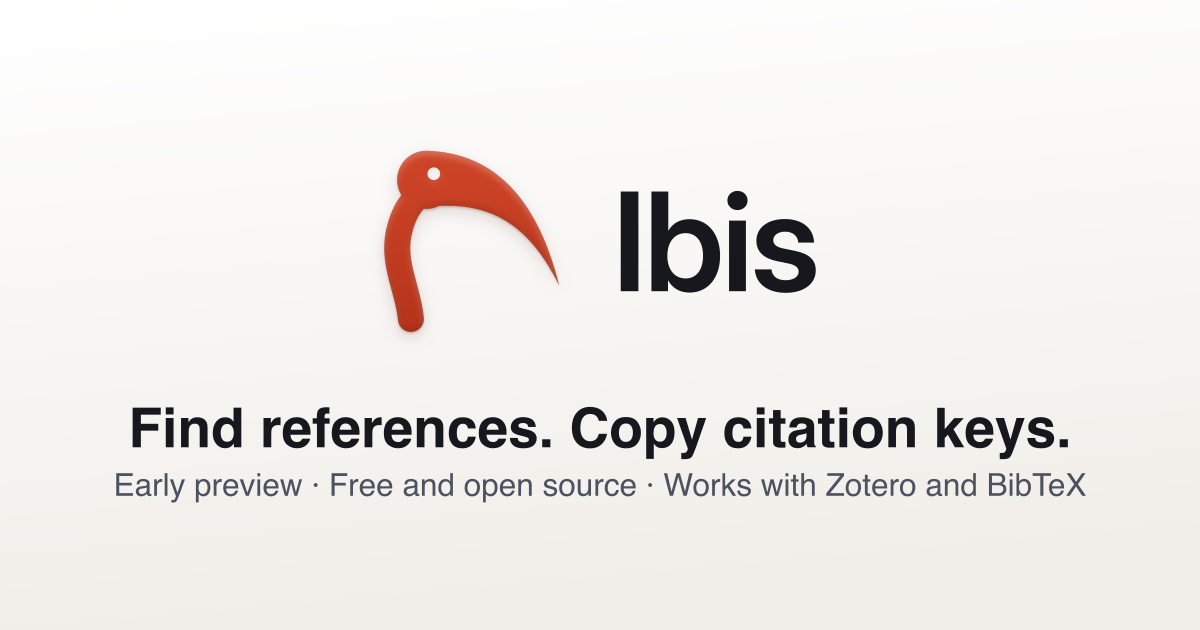
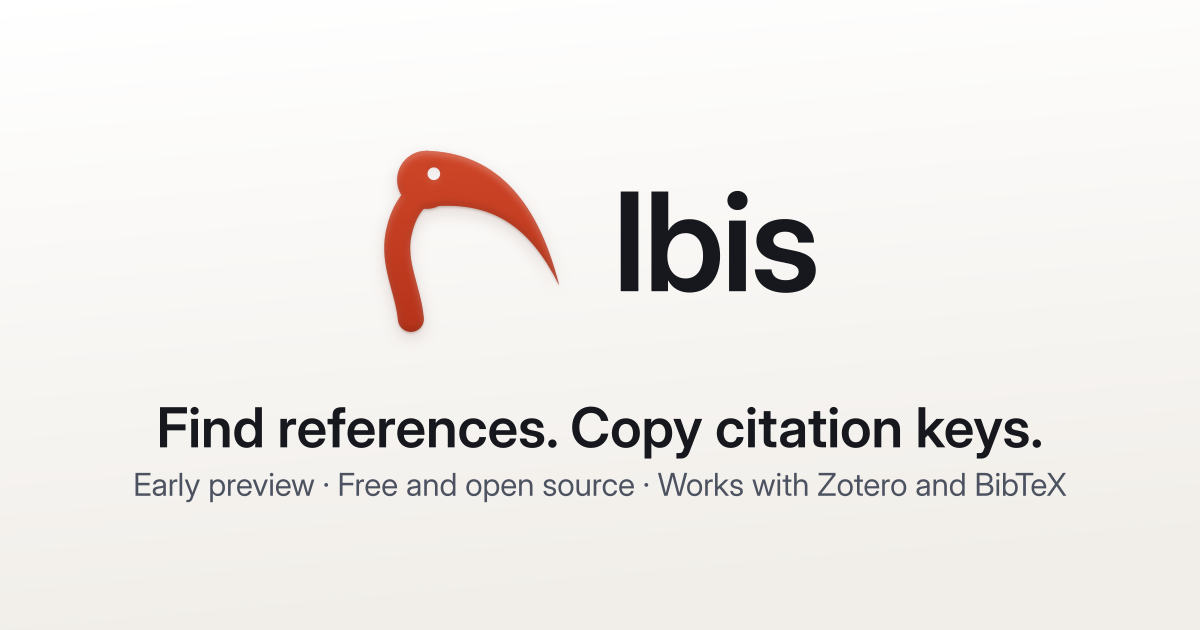
fix: render brand text with the same font backend
Assisted-by: Codex GPT-6

Changed region(s): [[0.0925, 0.6333, 0.925, 0.8143], [0.0925, 0.6333, 0.4625, 0.7238]]

diff --git a/brand/build.py b/brand/build.py
@@ -12,6 +12,7 @@ from pathlib import Path
 import argparse
 import json
 import math
+import os
 import re
 import shutil
 import struct
@@ -23,6 +24,8 @@ from xml.sax.saxutils import escape
 
 HERE = Path(__file__).resolve().parent
 OUT = HERE / "exports"
+# Match fc-match and Linux CI on every host; macOS otherwise chooses CoreText.
+RENDER_ENV = {**os.environ, "PANGOCAIRO_BACKEND": "fc"}
 
 # The values people tune (colours, sizes, depth, motion, words) live in settings.json;
 # these names keep the code readable.
@@ -55,7 +58,7 @@ def ratio(name):
 
 def rasterize(svg):
     """Render SVG text with rsvg-convert; return (width, height, alpha rows)."""
-    data = subprocess.run(["rsvg-convert"], input=svg.encode(), capture_output=True, check=True).stdout
+    data = subprocess.run(["rsvg-convert"], input=svg.encode(), capture_output=True, check=True, env=RENDER_ENV).stdout
     pos, chunks, width = 8, [], 0
     while pos < len(data):
         size, kind = struct.unpack(">I4s", data[pos:pos + 8])
@@ -369,7 +372,7 @@ def png(svg_name, out_name, width, height=None):
     args = ["rsvg-convert", "--width", str(width)]
     if height != "auto":
         args += ["--height", str(height or width)]
-    subprocess.run(args + ["--output", str(OUT / "png" / out_name), str(OUT / svg_name)], check=True)
+    subprocess.run(args + ["--output", str(OUT / "png" / out_name), str(OUT / svg_name)], check=True, env=RENDER_ENV)
 
 
 def ico(svg_name, sizes):
@@ -448,7 +451,7 @@ def video_card(w, h, dark, uid, lines, logo_size=0.2):
 
 
 def thumbnail(uid):
-    """A YouTube thumbnail template: edit the two text lines in the SVG, then export at 1280 x 720."""
+    """A YouTube thumbnail made from the two text lines in settings.json."""
     w, h = 1280, 720
     d1, body = background(w, h, NIGHT, uid)
     d2, bird = centred("mark", 440, 300, GRADIENT_DARK, uid + "m", True)

diff --git a/scripts/test_brand.py b/scripts/test_brand.py
@@ -4,11 +4,18 @@ import os
 import runpy
 import tempfile
 import unittest
+from unittest.mock import patch
 
 BUILD = runpy.run_path(str(Path(__file__).resolve().parents[1] / "brand/build.py"))
 
 
 class BrandDrift(unittest.TestCase):
+    def test_text_rendering_does_not_inherit_the_native_font_backend(self):
+        with patch.dict(os.environ, {"PANGOCAIRO_BACKEND": "coretext"}), patch("subprocess.run") as render:
+            BUILD["png"]("synthetic.svg", "synthetic.png", 32)
+            self.assertEqual(render.call_args.kwargs.get("env", {}).get("PANGOCAIRO_BACKEND"), "fc")
+            self.assertEqual(os.environ["PANGOCAIRO_BACKEND"], "coretext")
+
     @unittest.skipIf(os.name == "nt", "symlinks require developer-mode privileges")
     def test_publishing_refuses_symlink_outputs(self):
         with tempfile.TemporaryDirectory() as directory:

diff --git a/apps/desktop/src-tauri/icons/source/generate.py b/apps/desktop/src-tauri/icons/source/generate.py
@@ -55,7 +55,7 @@ def render(root, source, size, output):
     subprocess.run([
         "rsvg-convert", "--width", str(size), "--height", str(size),
         "--output", str(output), str(root / "source" / source),
-    ], check=True)
+    ], check=True, env=brand.RENDER_ENV)
 
 
 def main(root=ROOT):

diff --git a/brand/README.md b/brand/README.md
@@ -55,7 +55,9 @@ M is the height of the bird.
 The build needs Python 3, librsvg's `rsvg-convert`, fontconfig and Inter Display
 (the Linux CI packages are `librsvg2-bin` and `fonts-inter`). The [desktop icon
 notes](../apps/desktop/src-tauri/icons/source/README.md) describe platform sizing
-and formats. Never edit generated SVGs, PNGs, icon containers or `src/brand.ts`
+and formats. Rendering uses Pango's fontconfig backend on every platform so it
+matches the font check, rather than the host's native font substitutions.
+Never edit generated SVGs, PNGs, icon containers or `src/brand.ts`
 by hand.
 
 `node scripts/check.mjs` includes the drift check; Linux CI runs it with
